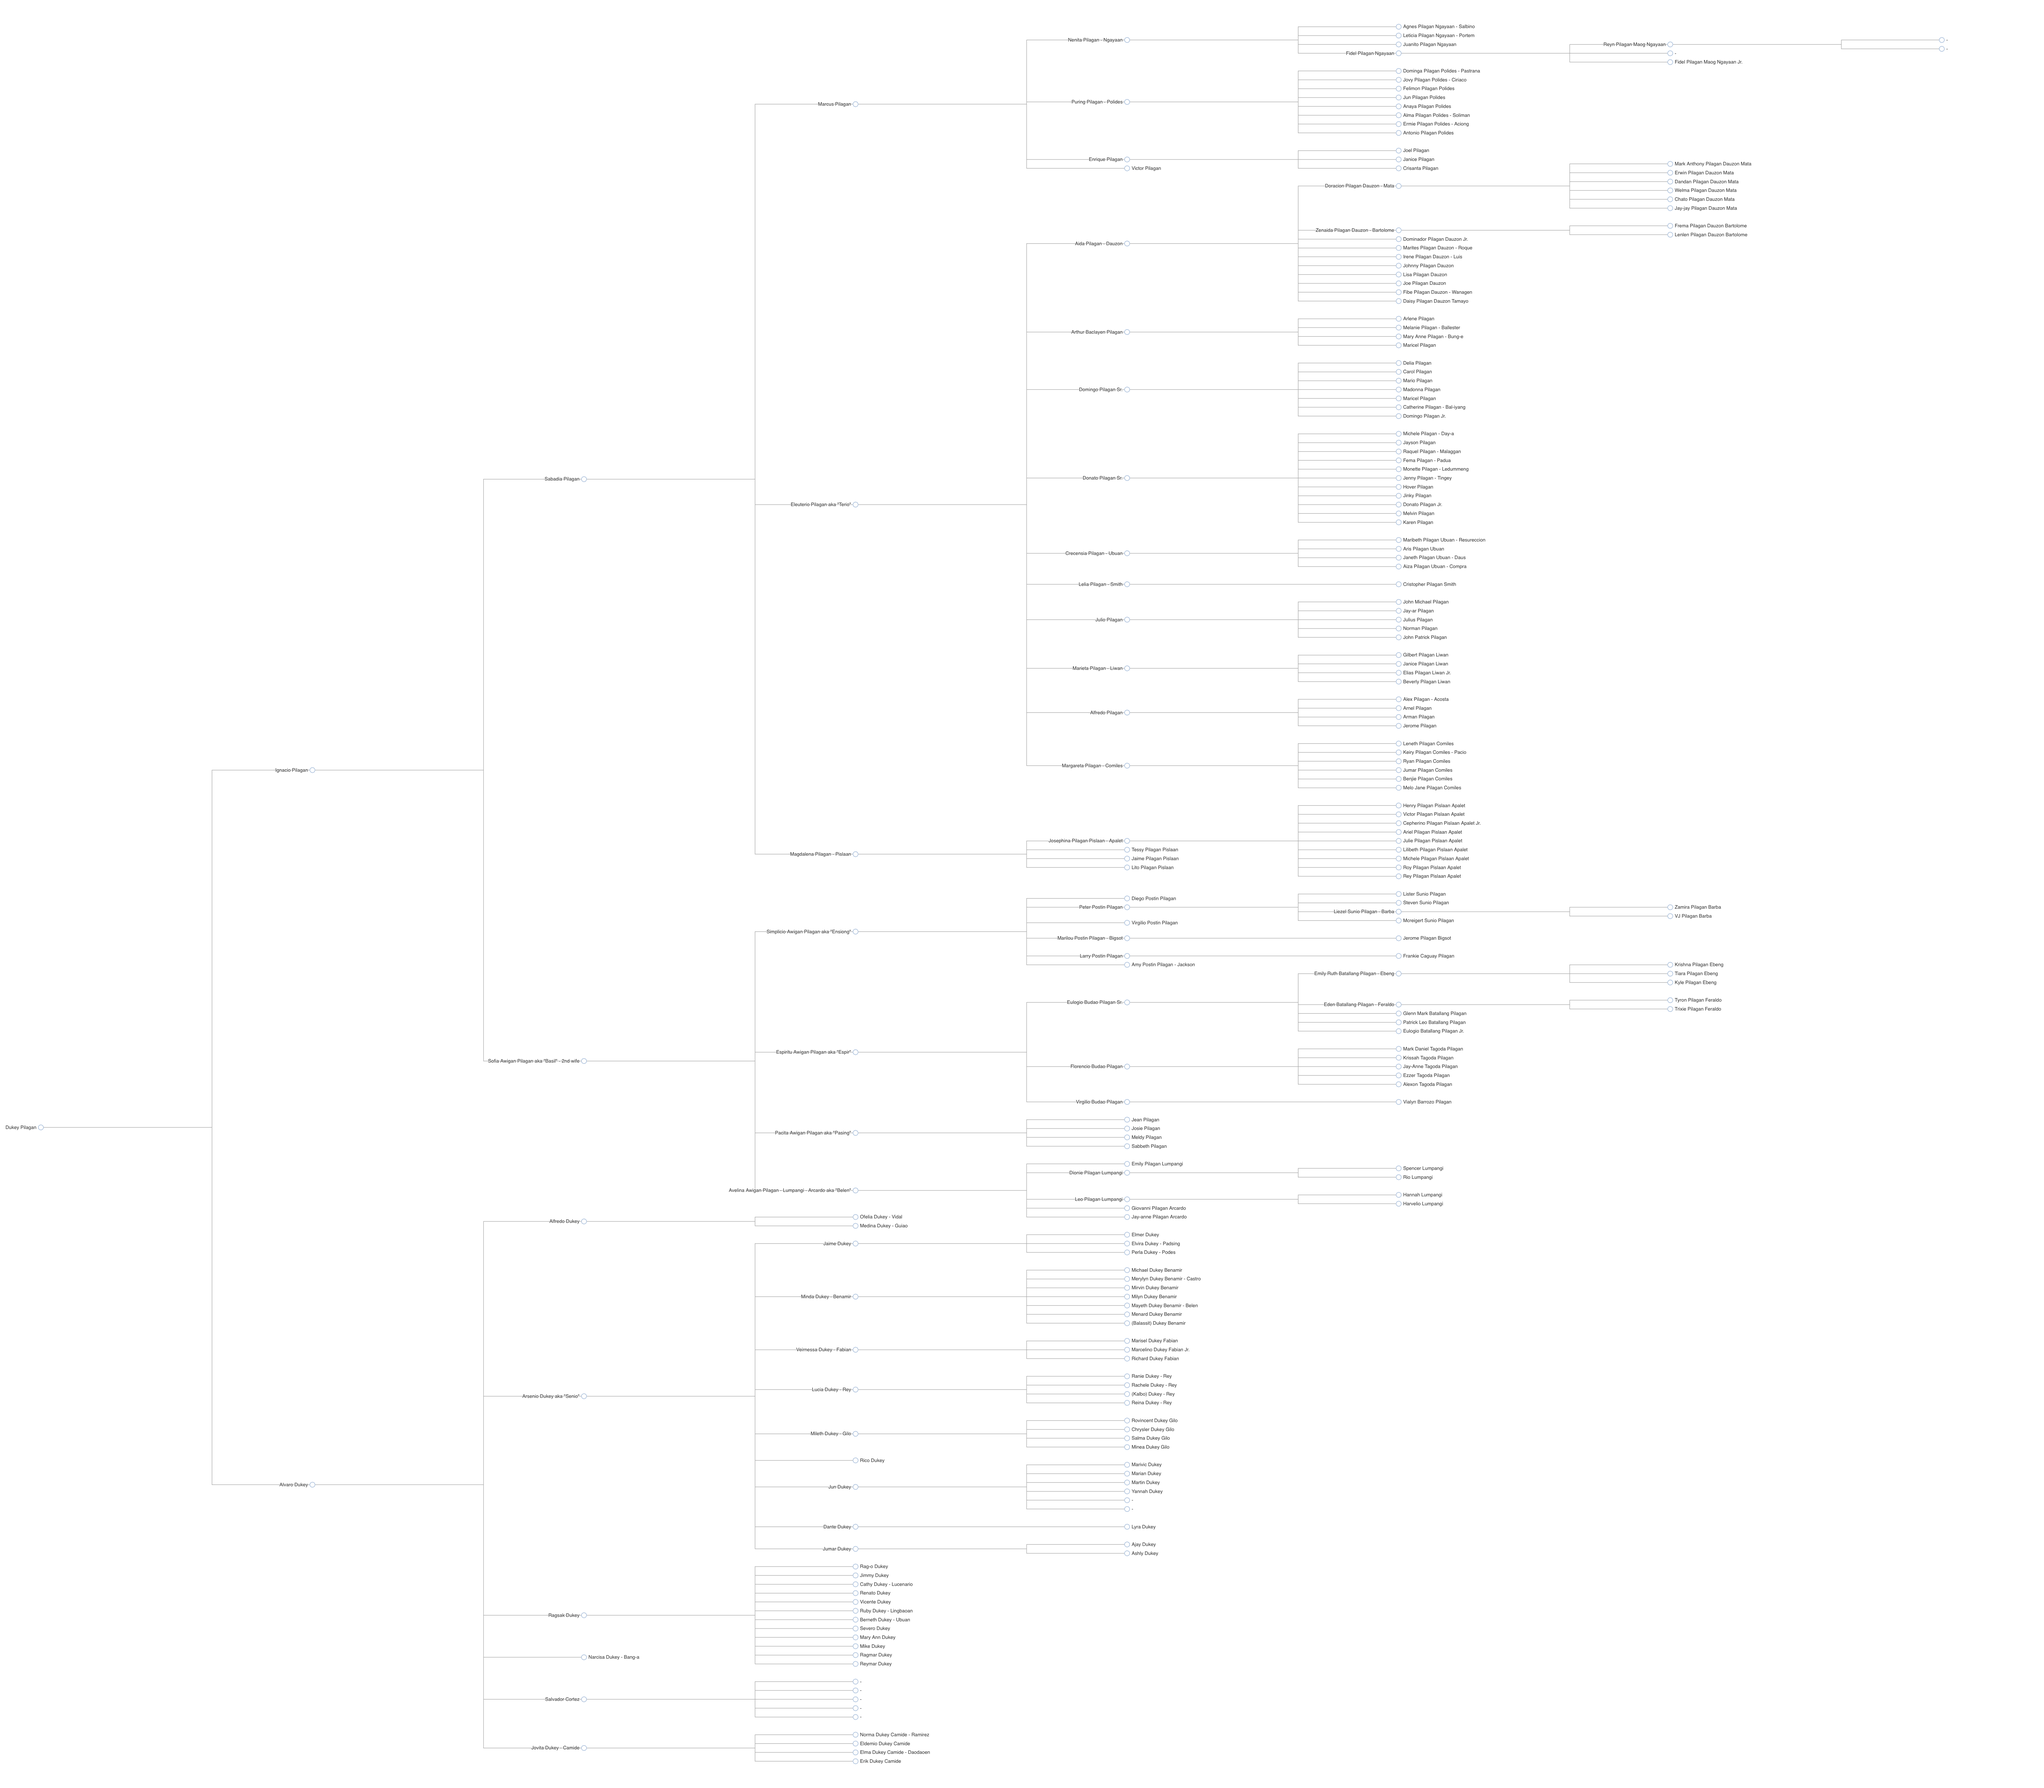
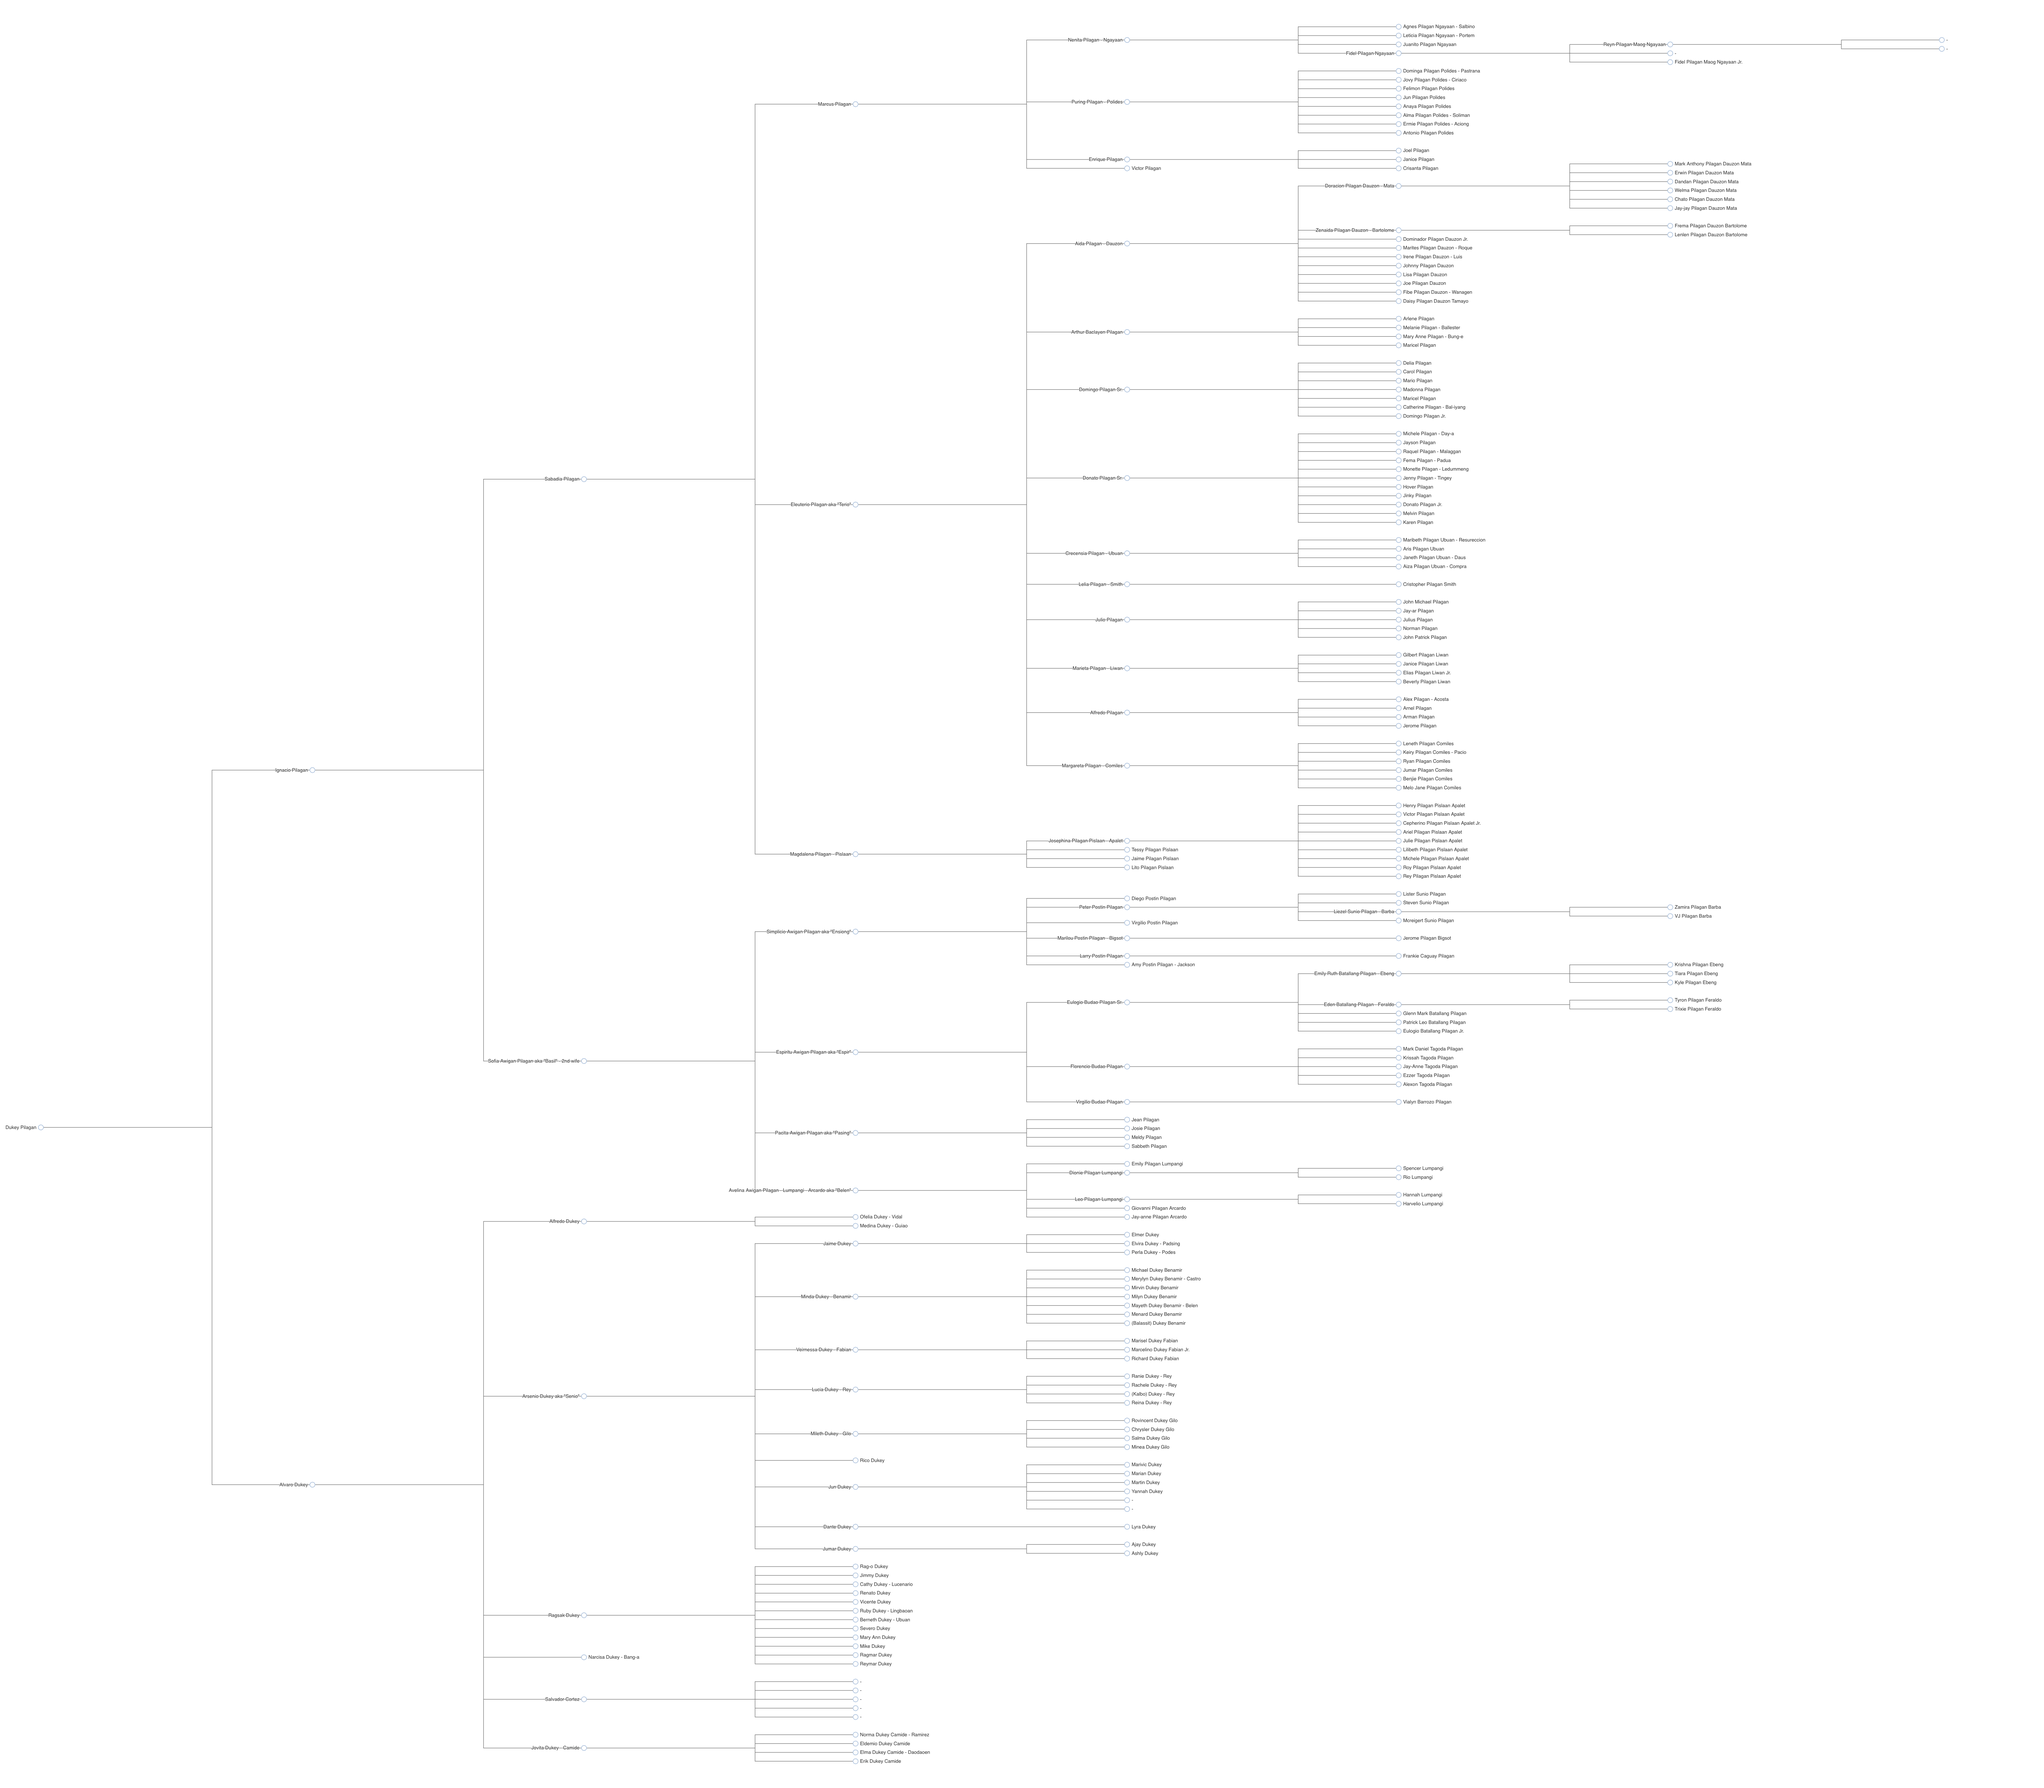
update line colors

diff --git a/src/views/PilaganDukey.vue b/src/views/PilaganDukey.vue
@@ -1144,7 +1144,7 @@ const chartOption = computed(() => {
         edgeShape: 'polyline',
         edgeForkPosition: '63%',
         lineStyle: {
-          color: '#aaaaaa'
+          color: '#777777'
         },
         label: {
           position: 'left',
